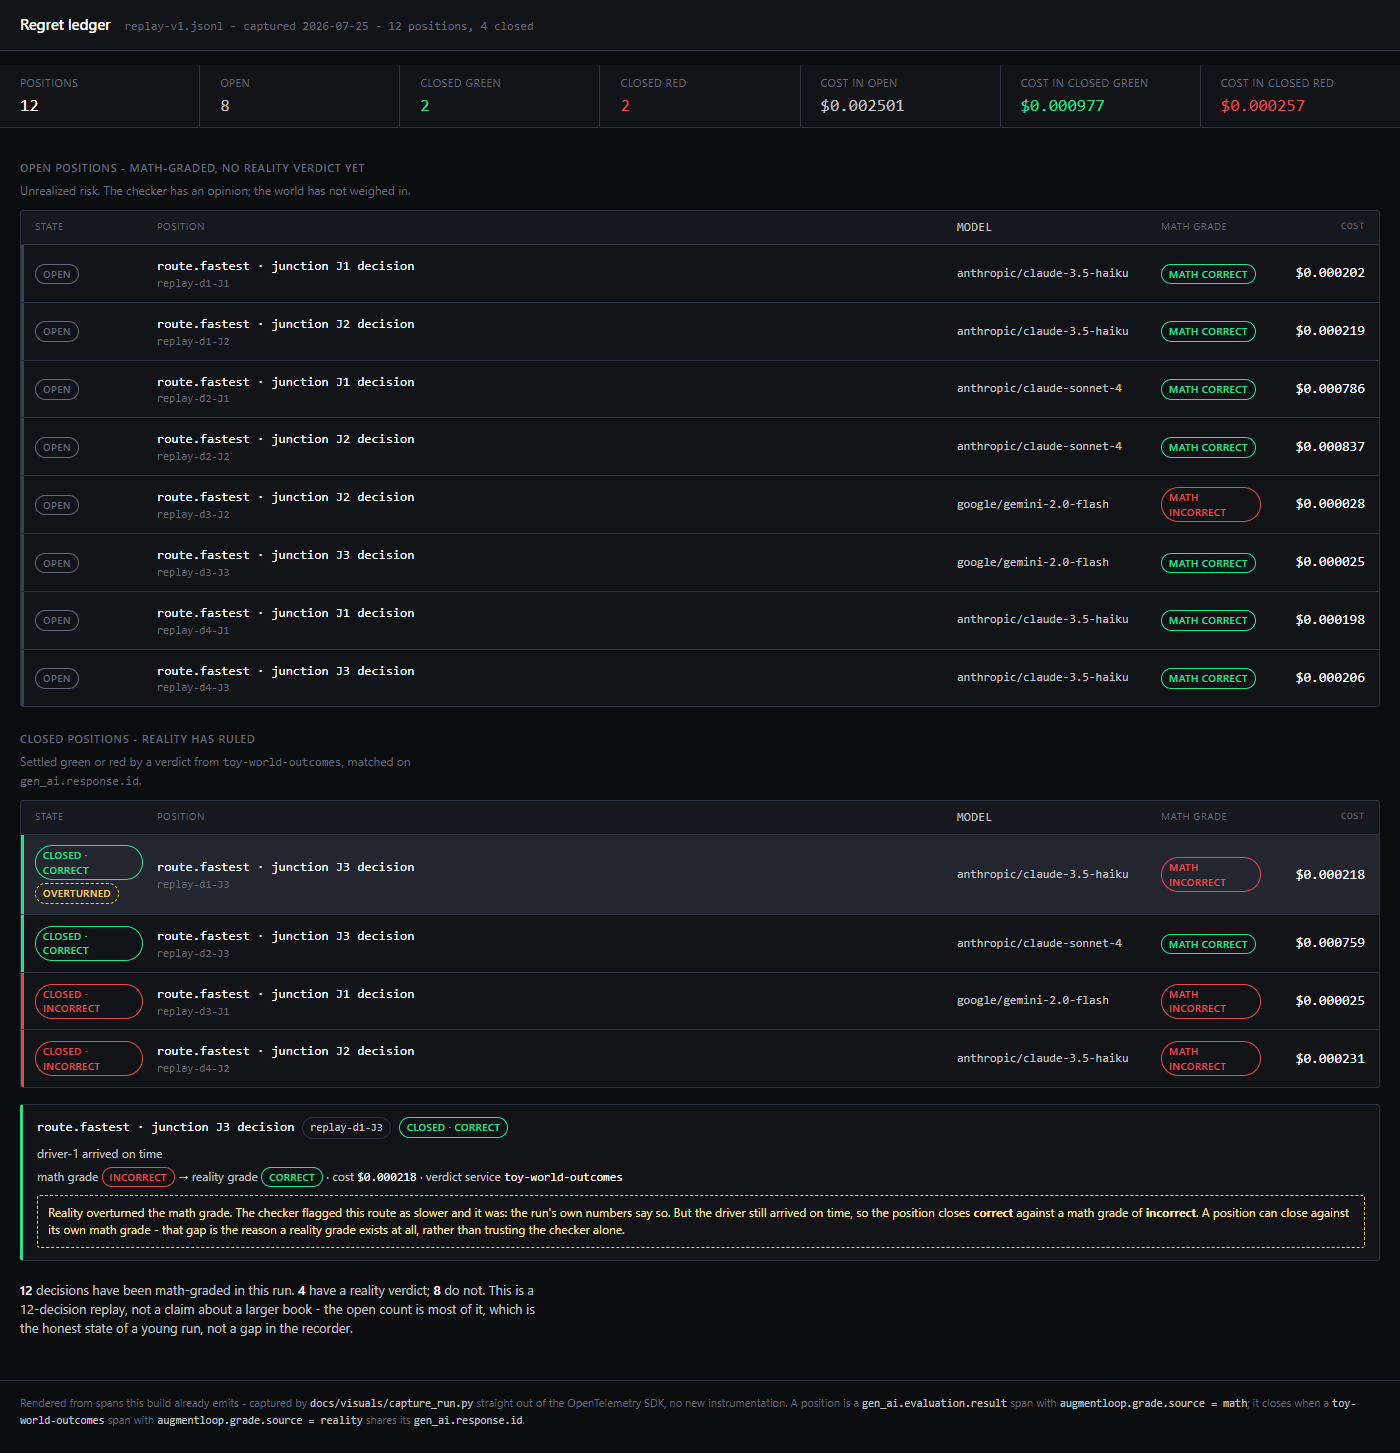
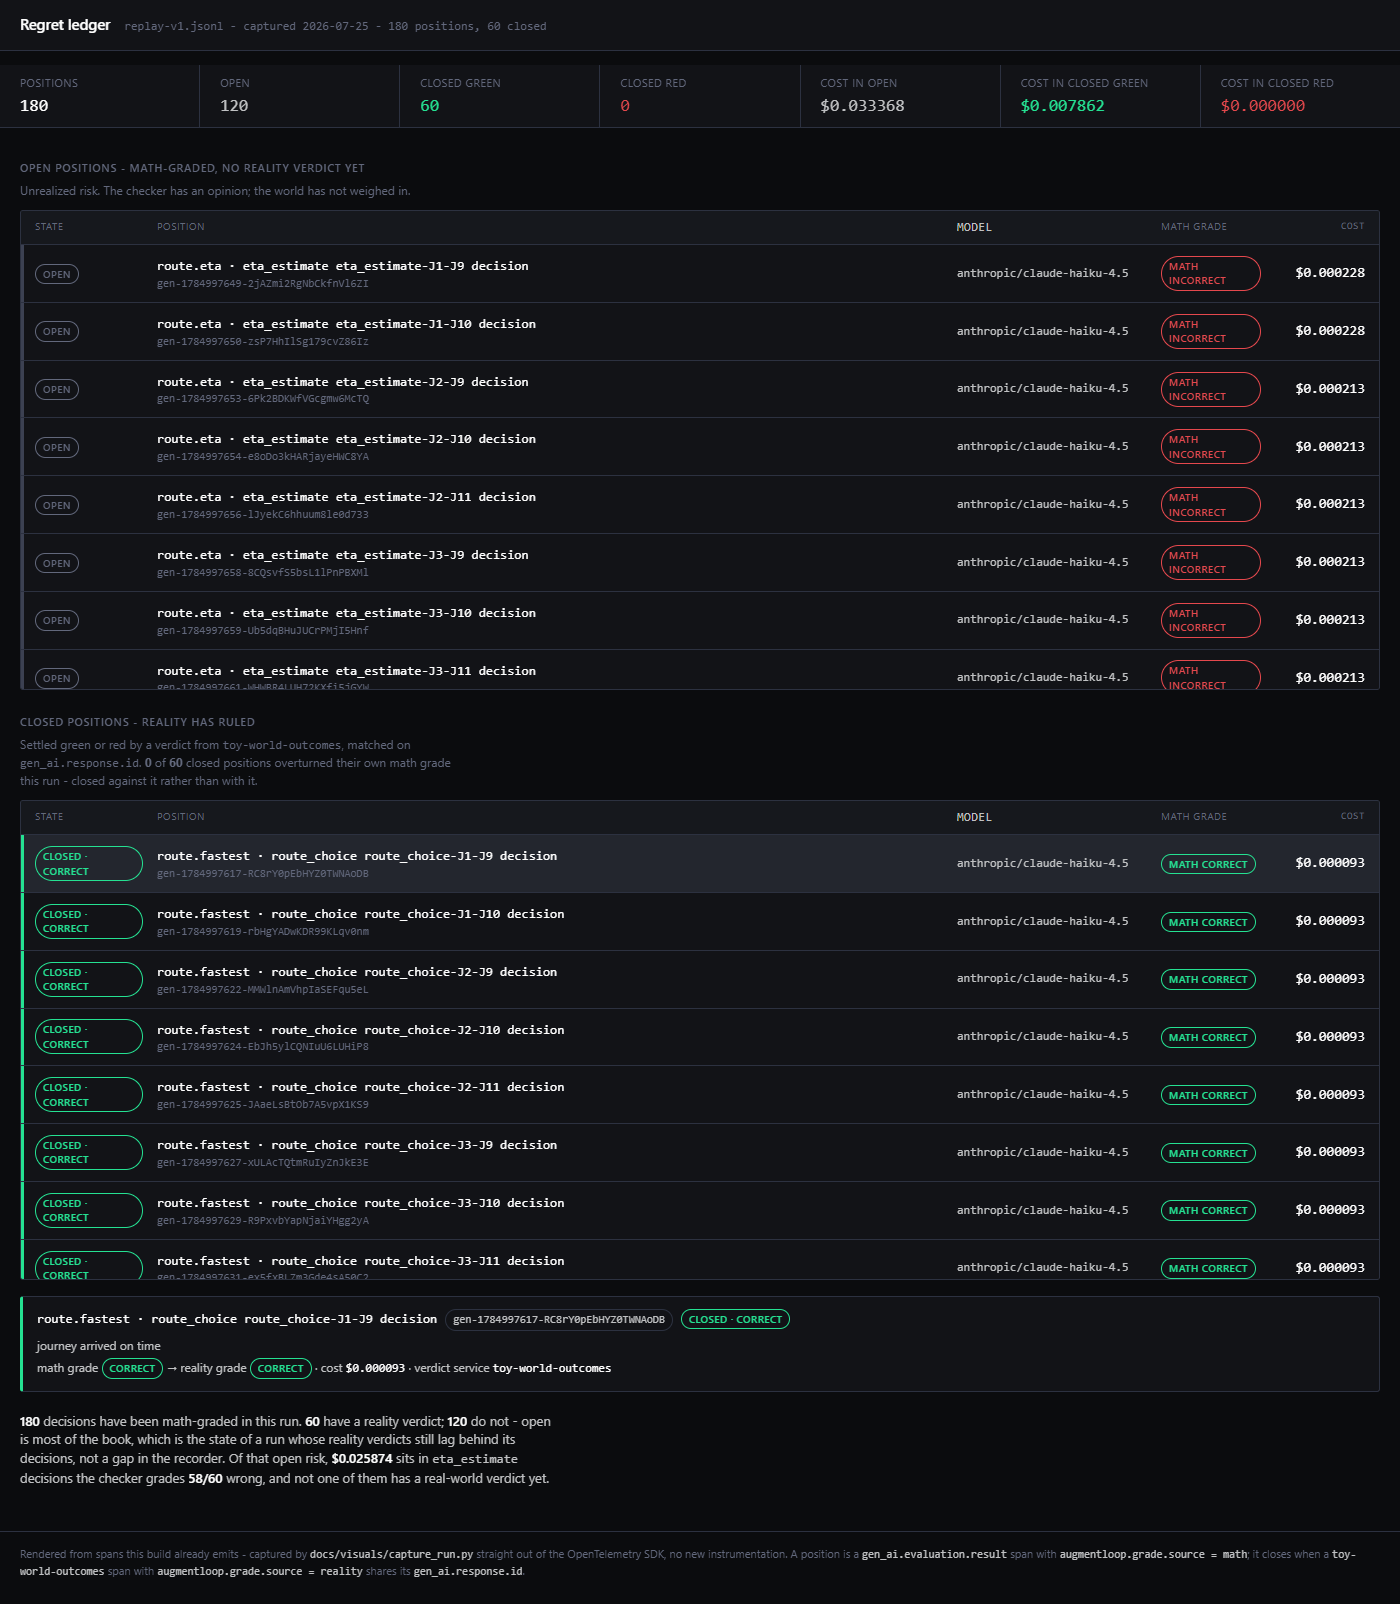
refresh(#61, #62): re-verify genome strip and regret ledger against the post-#33 run
Both pages already read run-data.js correctly; only their fixed assumptions
and screenshots were stale.

- genome-strip.html: add the missing favicon link (was the only console
  error anywhere in the two pages). Confirmed live: 240 glyphs (180 math/58
  wrong, 60 reality/0 wrong, 0 ai_judge), glyph width clamps to its 6px
  floor and stays clickable and legible.
- regret-ledger.html: the open book's `.book` had no height cap, so 120 open
  rows (vs. the 8 it was built against) ran the page to an 11078px scroll
  height. Capped both books at 480px with a sticky header; page is 1586px
  now. Replaced the stale "12-decision replay" note with the real 180/120/60
  figures and the eta_estimate honest line ($0.025874 across 58/60-wrong
  decisions, none of them closed). OVERTURNED's code path stays for a future
  run that has one; added one computed "0 of 60 overturned" line so the zero
  is stated rather than just silently never firing, and fixed a comment that
  claimed this run has an overturned example when it does not.
- README.md: rewrote the genome-strip and regret-ledger sections' figures
  and screenshots, and fixed the Regenerating section, which still pointed
  at the deleted blast-radius.html.

diff --git a/docs/visuals/regret-ledger.html b/docs/visuals/regret-ledger.html
@@ -58,10 +58,17 @@
   }
   .section-note { margin: -4px 0 10px; font-size: 12px; color: var(--text-faint); max-width: 68ch; }
 
-  .book { border: 1px solid var(--line); border-radius: 3px; overflow: hidden; background: var(--line); display: flex; flex-direction: column; gap: 1px; }
+  /* A book can hold well over a hundred rows (this run's open book has 120) -
+     without a cap it runs the whole page off the bottom of the viewport. */
+  .book {
+    border: 1px solid var(--line); border-radius: 3px; background: var(--line);
+    display: flex; flex-direction: column; gap: 1px;
+    max-height: 480px; overflow-y: auto;
+  }
   .book-head {
     display: none; padding: 8px 14px; background: var(--bg-ink-300); font-size: 10px;
     letter-spacing: 0.05em; text-transform: uppercase; color: var(--text-faint);
+    position: sticky; top: 0; z-index: 1;
   }
   @media (min-width: 760px) { .book-head { display: flex; gap: 14px; } }
 
@@ -137,7 +144,7 @@
   <div class="book" id="book-open"></div>
 
   <h2 style="margin-top: 24px;">Closed positions - reality has ruled</h2>
-  <p class="section-note">Settled green or red by a verdict from <code>toy-world-outcomes</code>, matched on <code>gen_ai.response.id</code>.</p>
+  <p class="section-note" id="closed-note">Settled green or red by a verdict from <code>toy-world-outcomes</code>, matched on <code>gen_ai.response.id</code>.</p>
   <div class="book" id="book-closed"></div>
 
   <div class="detail" id="detail"></div>
@@ -273,12 +280,28 @@
       ${body}`;
   }
 
+  // OVERTURNED - a position that closes against its own math grade - is the
+  // ledger's most interesting state, and this run has none. State that as a
+  // fact about the run rather than letting the state quietly never appear:
+  // same reasoning as the genome strip's ai_judge = 0 (ADR 0001).
+  function renderClosedNote() {
+    const overturned = closed.filter((p) => p.overturned).length;
+    document.getElementById('closed-note').innerHTML =
+      `Settled green or red by a verdict from <code>toy-world-outcomes</code>, matched on
+       <code>gen_ai.response.id</code>. <b>${overturned}</b> of <b>${closed.length}</b> closed positions
+       overturned their own math grade this run - closed against it rather than with it.`;
+  }
+
   function renderNote() {
+    const etaPositions = positions.filter((p) => attr(p.span, 'augmentloop.decision.type') === 'eta_estimate');
+    const etaWrong = etaPositions.filter((p) => !p.mathOk).length;
+    const etaCost = sumCost(etaPositions);
     document.getElementById('note').innerHTML =
       `<b>${positions.length}</b> decisions have been math-graded in this run. <b>${closed.length}</b> have
-       a reality verdict; <b>${open.length}</b> do not. This is a 12-decision replay, not a claim about a
-       larger book - the open count is most of it, which is the honest state of a young run, not a gap in
-       the recorder.`;
+       a reality verdict; <b>${open.length}</b> do not - open is most of the book, which is the state of a
+       run whose reality verdicts still lag behind its decisions, not a gap in the recorder. Of that open
+       risk, <b>${money(etaCost)}</b> sits in <code>eta_estimate</code> decisions the checker grades
+       <b>${etaWrong}/${etaPositions.length}</b> wrong, and not one of them has a real-world verdict yet.`;
   }
 
   function boot() {
@@ -286,14 +309,17 @@
       `${RUN.recording} - captured ${RUN.capturedAt} - ${positions.length} positions, ${closed.length} closed`;
     renderStats();
     renderBooks();
+    renderClosedNote();
     renderNote();
     document.querySelectorAll('.book').forEach((el) =>
       el.addEventListener('click', (ev) => {
         const b = ev.target.closest('button.pos');
         if (b) renderDetail(positions[Number(b.dataset.i)]);
       }));
-    // Open on the one position that closed against its own math grade - the
-    // plan calls it the most interesting row in the run, so it is the default.
+    // Open on the one position that closed against its own math grade, if this
+    // run has one - that is the most interesting row a ledger can show. This
+    // run has none (0 overturned), so this falls through to the first position;
+    // the branch stays live for a run where reality does disagree with math.
     renderDetail(positions.find((p) => p.overturned) || positions[0]);
   }
 

diff --git a/docs/visuals/genome-strip.html b/docs/visuals/genome-strip.html
@@ -3,6 +3,7 @@
 <head>
 <meta charset="utf-8">
 <meta name="viewport" content="width=device-width, initial-scale=1">
+<link rel="icon" href="data:,">
 <title>Grade provenance - Gradebook</title>
 <style>
   /* SigNoz Periscope tokens, verified against @signozhq/design-tokens/dist/style.css. */

diff --git a/docs/visuals/README.md b/docs/visuals/README.md
@@ -45,7 +45,7 @@ Every graded decision in the run is one glyph, in the order it was graded.
 **Hue is where the grade's authority came from**, saturation is whether it was
 right, height is what it cost.
 
-![Grade provenance strip: 16 glyphs, blue for math grades and amber for reality grades, wrong decisions carrying a red foot along the baseline, with a legend showing 12 math, 4 reality and 0 ai_judge](genome-strip.png)
+![Grade provenance strip: 240 glyphs, blue for math grades and amber for reality grades, wrong decisions carrying a red foot along the baseline, with a legend showing 180 math (58 wrong), 60 reality (0 wrong) and 0 ai_judge](genome-strip.png)
 
 Blue is a `math` grade, amber is a `reality` grade, and sienna is reserved for
 `ai_judge`. A wrong decision washes out and keeps a fully saturated cherry foot,
@@ -53,16 +53,18 @@ so bad runs read as red streaks along the baseline without inspecting a single
 glyph. The dashed divider is where the run crosses into `toy-world-outcomes` -
 the late grades that arrive after the decisions they judge.
 
-**12 math, 4 reality, 0 ai_judge.** The zero is the point, not an omission: an
-AI's opinion never silently enters the headline number ([ADR
+**180 math (58 wrong), 60 reality (0 wrong), 0 ai_judge.** The zero is the
+point, not an omission: an AI's opinion never silently enters the headline
+number ([ADR
 0001](../adr/0001-machine-checked-grades-only-in-the-headline-metric.md)), and
 the strip shows that as a fact about the run rather than a promise in prose.
 Click any glyph for its model, cost and reasoning.
 
-The glyphs scale with the run: at 16 decisions they are wide enough to click,
-and they pack down to a hairline as the count grows. Verified by cloning the
-strip to 176 glyphs in the browser - hue stays legible and the red baseline
-still reads at a glance.
+The glyph-width formula clamps between 6px and 30px so the strip scales from a
+handful of decisions up to the thousands the idea is really for. At this run's
+240 real glyphs it has already packed down to the 6px floor - checked directly
+against this data rather than a simulated clone: still clickable, and hue and
+the red baseline still read at a glance.
 
 ## Regret ledger
 
@@ -70,20 +72,29 @@ An options-book framing: a decision that has been math-graded but has no
 real-world verdict yet is an open position carrying unrealized risk. When
 reality arrives it closes that position green or red.
 
-![Regret ledger, rendered from the committed replay recording on 2026-07-25: 12 positions, 8 open and 4 closed (2 green, 2 red), with the closed book expanded to show driver-1's junction J3 decision, whose math grade of incorrect was overturned by a reality grade of correct](regret-ledger.png)
+![Regret ledger, rendered from the committed replay recording on 2026-07-25: 180 positions, 120 open and 60 closed (60 green, 0 red), the open and closed books each capped in their own scroll container, with the closed book showing route_choice-J1-J9's position, math-graded correct and closed correct by its reality verdict](regret-ledger.png)
 
-**12 positions, 8 open, 4 closed - 2 green, 2 red.** $0.002501 sits in open
-positions, unrealized. The closed book is where the interesting row lives:
-`replay-d1-J3` closed **correct** against its own math grade of **incorrect**
-- the checker flagged the route as the slower one, and by the run's own
-numbers it was, but the driver still arrived on time. A position can close
-against its own math grade. That gap is the reason a reality grade exists at
-all, rather than trusting the checker alone.
+**180 positions, 120 open, 60 closed - 60 green, 0 red.** $0.033368 sits in
+open positions, unrealized; $0.007862 in positions reality confirmed correct;
+$0.000000 in positions reality found wrong, because none did. Do not read a
+track record into that: every closed position in this run happens to be
+green, and none has closed red yet to test whether the ledger would show one
+honestly. The stronger, honest line is in the open book instead - $0.025874
+sits in `eta_estimate` decisions the checker grades **58/60 wrong**, and not
+one of the 60 has a real-world verdict. That is unrealized risk in the literal
+sense: an opinion the world has not weighed in on.
 
-This is a 12-decision replay, not a claim about a larger book. Eight open
-positions out of twelve is most of the book - that is the honest state of a
-young run, not a gap in the recorder. Click any position for its full detail,
-including the reality verdict's explanation where one has arrived.
+The `OVERTURNED` state - a position that closes against its own math grade -
+never fires in this run; 0 of the 60 closed positions disagree with their math
+grade. The code path that renders it stays, for a run where reality does
+disagree, but this page says plainly when a state has zero instances rather
+than leaving a legend entry or example for something a reader will never see
+here.
+
+180 decisions is well past the 8-row open book the page was first built
+against, so both books now scroll inside a capped rail instead of running the
+page off the bottom. Click any position for its full detail, including the
+reality verdict's explanation where one has arrived.
 
 ## Regenerating
 
@@ -92,7 +103,7 @@ pip install -e reference-library -e toy-world
 python docs/visuals/capture_run.py     # rewrites run-data.js from a fresh run
 ```
 
-Then open `docs/visuals/blast-radius.html`, `docs/visuals/genome-strip.html`, or
+Then open `docs/visuals/span-link.html`, `docs/visuals/genome-strip.html`, or
 `docs/visuals/regret-ledger.html`. All three read the same `run-data.js`. The
 replay is deterministic, so the numbers do not move between runs; only the
 trace and span ids do.
